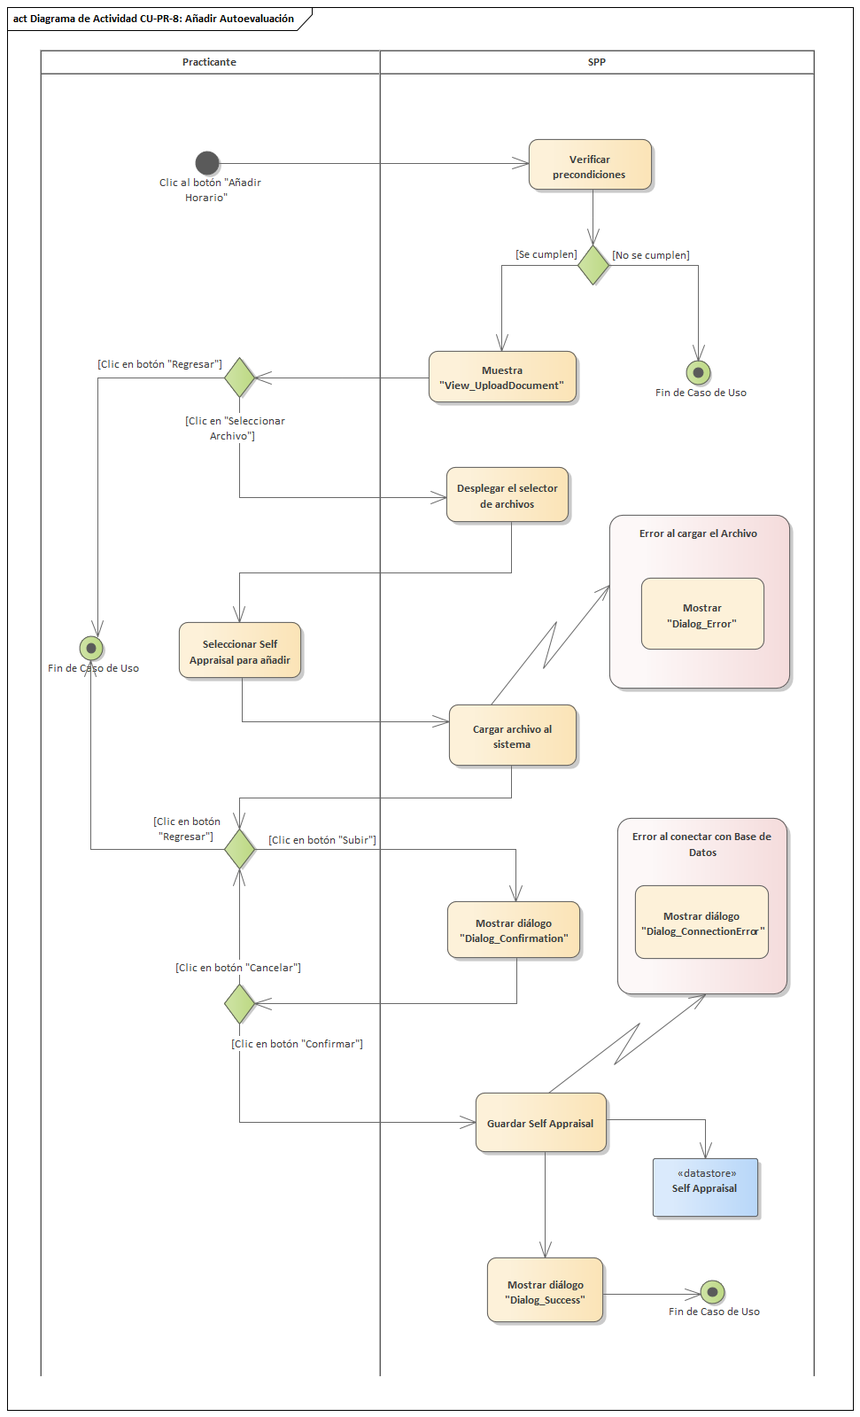
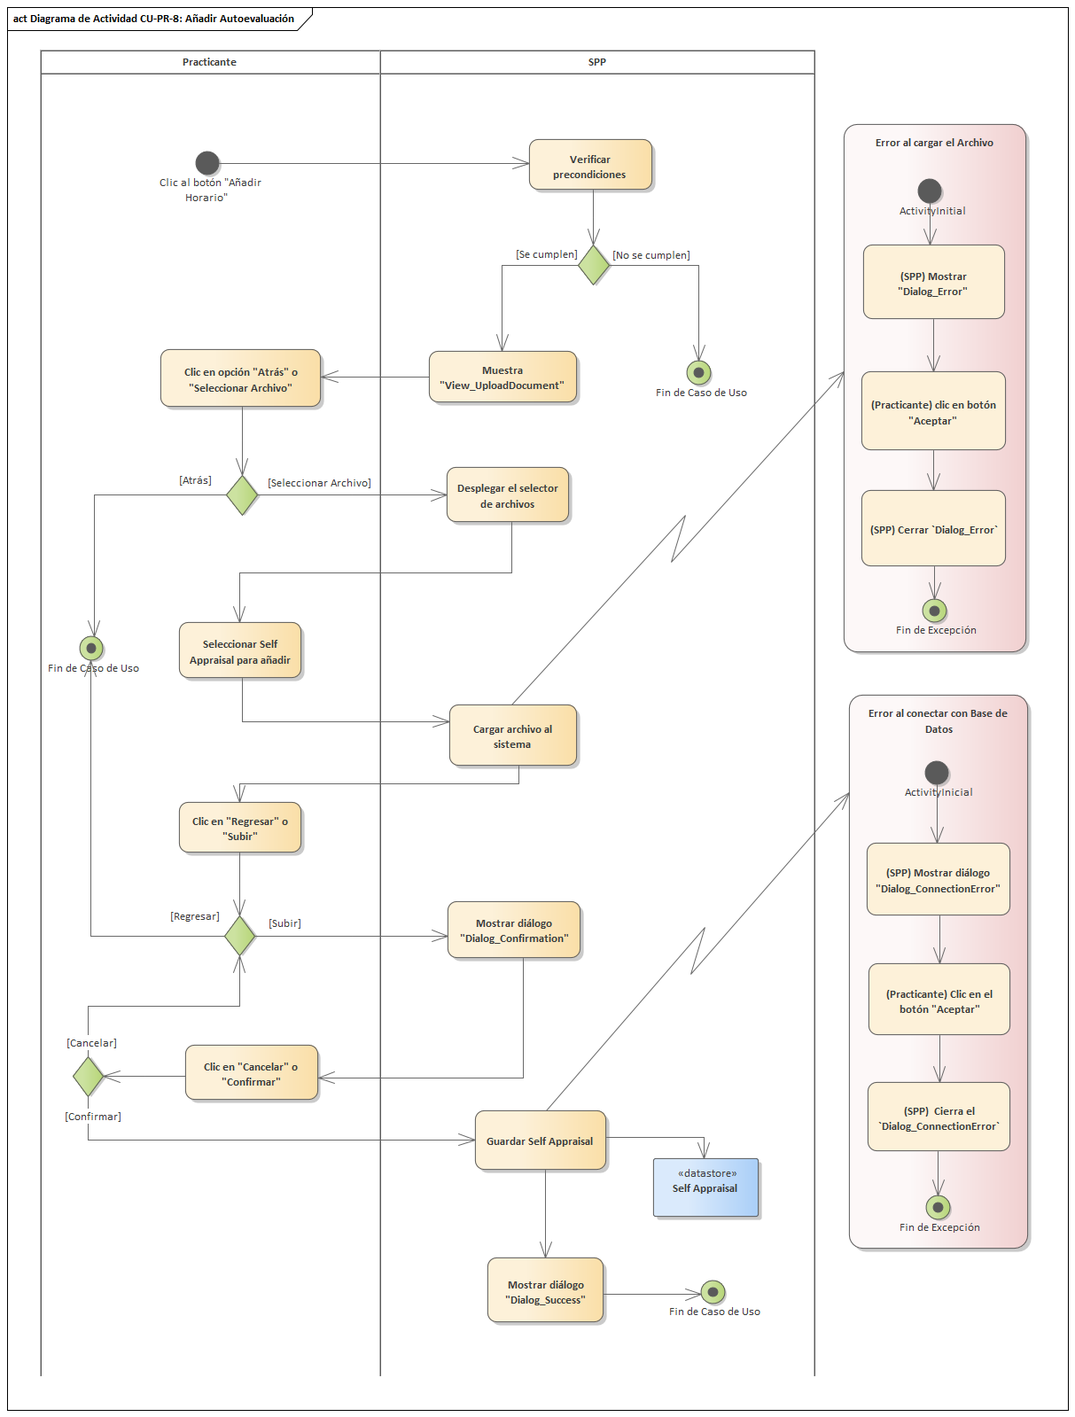
Corregir Diagramas de Actividad y Casos de Uso

diff --git a/assets/ucdescriptions/practitioner/CU-PR-1.md b/assets/ucdescriptions/practitioner/CU-PR-1.md
@@ -13,7 +13,7 @@ hide_hero: true
 
 **Fecha de creación:** 20 de marzo de 2020
 
-**Fecha de actualización:** 18 de junio de 2020
+**Fecha de actualización:** 27 de junio de 2020
 
 **Descripción:**  
 El *Practicante* deberá poder seleccionar hasta tres **`PROJECT`** como opciones para enviar un **`PROJECT REQUEST`** y poder ser asignado a uno de los **`PROJECT`** seleccionados.
@@ -25,32 +25,34 @@ El *Practicante* deberá poder seleccionar hasta tres **`PROJECT`** como opcione
 El *Practicante* da clic al botón "Solicitar Proyecto" en la vista [`View_ProjectSection`][VPSC].
 
 **Precondiciones:**  
-Pre-1. Debe haber, por lo menos, 1 **`PROJECT`** sin asignar en la Base de Datos.
-
-Pre-2. El Practicante no ha enviado su **`PROJECT REQUEST`**.
+Pre-1. Debe haber, por lo menos, 1 **`PROJECT`** sin asignar en la Base de Datos.  
+Pre-2. El Practicante no ha enviado su **`PROJECT REQUEST`**.   
 
 **Flujo Normal:**
-  1. El *SPP* recupera los **`PROJECT`** de la Base de Datos y los muestra en [`View_ProjectRequest`][VPRQ] con disposición cuadriculada; cada cuadro contiene una imagen representativa del proyecto y dos botones: "Visualizar" y "Seleccionar"; hasta abajo dos botones "Solicitar" y "Cancelar". EX-1.
+  1. El *SPP* recupera los nombres de los **`PROJECT`**, sin asignar, de la Base de Datos y los muestra en [`View_ProjectRequest`][VPRQ] con disposición cuadriculada; cada cuadro el nombre del proyecto y dos botones: "Visualizar" y "Seleccionar"; hasta abajo dos botones "Solicitar" y "Cancelar". EX-1.
   2. El *Practicante* da clic al botón "Seleccionar" en los **`PROJECT`** que quiera marcar como opción y da clic al botón "Solicitar". FA-1 FA-2 FA-4 FA-5
-  3. El *SPP* verifica que haya, al menos, un proyecto seleccionado. FA-6
-  4. El *SPP* muestra un diálogo [`Dialog_Confirmation`][DLCO] con los botones "Confirmar" y "No".
-  5. El *Practicante* da clic al botón "Confirmar". FA-3
-  6. El *SPP* cierra el [`Dialog_Confirmation`][DLCO] y añade los **`PROJECT`** al **`PROJECT REQUEST`** y lo guarda en la Base de Datos; y muestra un [`Dialog_Success`][DLSU].
+  3. El *SPP* verifica que haya, al menos, un proyecto seleccionado (FA-6) muestra un diálogo [`Dialog_Confirmation`][DLCO] con los botones "Confirmar" y "No".
+  4. El *Practicante* da clic al botón "Confirmar". FA-3
+  5. El *SPP* cierra el [`Dialog_Confirmation`][DLCO] y añade los **`PROJECT`** al **`PROJECT REQUEST`** y lo guarda en la Base de Datos; y muestra un [`Dialog_Success`][DLSU]. EX-1
+  6. Termina el Caso de uso.
 
 **Flujos Alternos:**
-  1. *Regresar*
-     1. El *Practicante* da clic en el botón "Regresar".
-     2. El *SPP* termina el Caso de Uso.
+  1. *Cancelar Caso de Uso*
+     1. El *Practicante* da clic en el botón "Atrás".
+     2. El *SPP* regresa a la [`View_ProjectSection`][VPSC] 
+     3. Termina el Caso de Uso.
   2. *Visualizar Proyecto*
      1. El *Practicante* da clic al botón "Visualizar".
-     2. El *SPP* muestra la interfaz [`View_ProjectInformation`][VPIN], que al final contiene un botón "Regresar".
+     2. El *SPP* muestra la interfaz [`View_ProjectInformation`][VPIN] que recupera al **`PROJECT`** y que al final contiene un botón "Regresar". EX-1
      3. El *Practicante* da clic en el botón "Regresar"
      4. El *SPP* cierra [`View_ProjectInformation`][VPIN].
   3. *Cancelar Confirmación*
      1. El *Practicante* da clic en el botón "NO".
      2. El *SPP* cierra el [`Dialog_Confirmation`][DLCO] y regresa al FN-2.
   4. *Máxima cantidad de opciones alcanzadas*
-     1. El *SPP* muestra el diálogo [`Dialog_MaxReached`][DLMR]. Regresa al FN-1.
+     1. El *SPP* muestra el diálogo [`Dialog_MaxReached`][DLMR]. 
+     2. El *Practicante* da clic en el botón Aceptar.
+     3. El *SPP* cierra el diálogo y regresa al FN-1.
   5. *Quitar Proyecto*
      1. El *Practicante* da clic en el botón "Quitar".
      2. El *SPP* quita la selección de ese proyecto.
@@ -61,7 +63,9 @@ Pre-2. El Practicante no ha enviado su **`PROJECT REQUEST`**.
 
 **Excepciones:**
    1. *Error al conectar con Base de Datos*
-      1. El *SPP* muestra un diálogo de mensaje [`Dialog_ConnectionError`][DLCE].
+      1. El *SPP* muestra un [`Dialog_ConnectionError`][DLCE] con el botón "Aceptar".
+      2. El *Practicante* da clic en el botón "Aceptar".
+      3. El *SPP* cierra el [`Dialog_ConnectionError`][DLCE] y [FN-1]: despliega la ventana sin los cuadros de los proyectos para solicitar; [FN-5, FA-2]: regresa al FN-2.
 
 **Postcondiciones:**  
 Post-1. El **`PROJECT REQUEST`** se guardó correctamente en la Base de Datos.

diff --git a/assets/ucdescriptions/coordinator/CU-C-2.md b/assets/ucdescriptions/coordinator/CU-C-2.md
@@ -22,7 +22,7 @@ El *Coordinador* podrá asignar, a un **`PRACTITIONER`**, un **`PROJECT`** regis
 *Coordinador*
 
 **Disparador:**  
-El *Coordinador* da clic al botón "Asignar Proyecto" en la vista [`View_PractitionerSection`][VPSE]
+El *Coordinador* da clic al botón "Asignar Proyecto" en la vista [`View_PractitionerSection`][VPSE].
 
 **Precondiciones:**  
 Pre-1. Debe haber, al menos, un **`PROJECT REQUEST`** en la Base de Datos.
@@ -32,13 +32,14 @@ Pre-1. Debe haber, al menos, un **`PROJECT REQUEST`** en la Base de Datos.
   2. El *Coordinador* busca al **`PRACTITIONER`** y da clic al botón "Asignar" del **`PROJECT`** que desee. FA-1
   3. El *SPP* recupera la información del **`PRACTITIONER`** y del **`PROJECT`** de la base de datos y muestra una ventana emergente de confirmación [`View_AssignationConfirmation`][VACO] con los botones "Asignar" y "Cancelar". EX-1
   4. El *Coordinador* da clic al botón "Asignar". FA-2
-  5. El *SPP* valida que el **`PROYECTO`** no se encuentre asignado. FA-3
-  6. El *SPP* realiza la asignación del **`PROJECT`** en la Base de Datos y cambia el estado del **`PROJECT REQUEST`** a "Asignado" y muestra un [`Dialog_Succes`][DLSU]. EX-1
+  5. El *SPP* valida que el **`PROYECTO`** no se encuentre asignado (FA-3) y realiza la asignación del **`PROJECT`** en la Base de Datos; cambia el estado del **`PROJECT REQUEST`** a "Asignado" y muestra un [`Dialog_Succes`][DLSU]. EX-1
+  6. Termina el Caso de Uso.
 
 **Flujos Alternos:**
-  1. *Regresar*
+  1. *Cancelar Caso de Uso*
      1. El *Practicante* da clic al botón "Regresar".
-     2. El *SPP* termina el Caso de Uso.
+     2. El *SPP* regresa a la [`View_PractitionerSection`][VPSE].
+     3. Termina el Caso de Uso.
   2. *Cancelar Confirmación*
      1. El *Practicante* da clic al botón "Cancelar"
      2. El *SPP* cierra la ventana [`View_AssignationConfirmation`][VACO] y regresa al FN-2.
@@ -49,9 +50,9 @@ Pre-1. Debe haber, al menos, un **`PROJECT REQUEST`** en la Base de Datos.
 
 **Excepciones:**
    1. *Error al conectar con Base de Datos*
-      1. El *SPP* muestra un diálogo de mensaje [`Dialog_ConnectionError`][DLCE].
+      1. El *SPP* muestra un [`Dialog_ConnectionError`][DLCE] con el botón "Aceptar".
       2. El *Practicante* da clic en el botón "Aceptar".
-      3. El *SPP* cierra el [`Dialog_ConnectionError`][DLCE].
+      3. El *SPP* cierra el [`Dialog_ConnectionError`][DLCE] y [FN-1]: Despliega la ventana sin **`PROJECT REQUEST`**; [FN-3, FN-5]: regresa al FN-2.
 
 
 **Postcondiciones:**  
@@ -64,7 +65,7 @@ No incluye.
 No extiende.
 
 [VPSE]: https://raw.githubusercontent.com/Phalord/PracticasProfesionales/gh-pages/assets/imgs/prototypes/coordinator/View_PractitionerSection.png "`View_PractitionerSection` Prototype"
-[VPRE]: https://raw.githubusercontent.com/Phalord/PracticasProfesionales/gh-pages/assets/imgs/prototypes/coordinator/View_ProjectAssignation.png "`View_ProjectAssignation` Prototype"
+[VPRE]: https://raw.githubusercontent.com/Phalord/PracticasProfesionales/gh-pages/assets/imgs/prototypes/coordinator/View_ProjectRequests.png "`View_ProjectRequests` Prototype"
 [VACO]: https://raw.githubusercontent.com/Phalord/PracticasProfesionales/gh-pages/assets/imgs/prototypes/coordinator/View_AssignationConfirmation.png "`View_AssignationConfirmation` Prototype"
 [DLSU]: https://raw.githubusercontent.com/Phalord/PracticasProfesionales/gh-pages/assets/imgs/prototypes/generals/Dialog_Success.png "`Dialog_Success` Prototype"
 [DLAA]: https://raw.githubusercontent.com/Phalord/PracticasProfesionales/gh-pages/assets/imgs/prototypes/coordinator/Dialog_ProjectAlreadyAssigned.png "`Dialog_ProjectAlreadyAssigned` Prototype"

diff --git a/assets/ucdescriptions/practitioner/CU-PR-3.md b/assets/ucdescriptions/practitioner/CU-PR-3.md
@@ -13,7 +13,7 @@ hide_hero: true
 
 **Fecha de creación:** 19 de marzo de 2020
 
-**Fecha de actualización:** 18 de junio de 2020
+**Fecha de actualización:** 27 de junio de 2020
 
 **Descripción:**  
 El *Practicante* deberá poder generar su **`PARTIAL REPORT`** y registrar las **`ACTIVITY`** que haya realizado durante un tiempo determinado para que pueda ser consultado y calificado, posteriormente, por un *Profesor*.
@@ -28,17 +28,18 @@ El *Practicante* da clic al botón "Generar Reporte Parcial" en la vista [`View_
 PRE-1. Se encuentra un **`PROJECT`** vinculado a algún **`PRACTITIONER`**.
 
 **Flujo Normal:**
-  1. El *SPP* despliega la interfaz [`View_GeneratePartialReport`][VGPR] mostrando etiquetas de texto que señalan la información que deberá ser ingresada (NRC, Periodo Escolar, Periodo del Reporte, Horas Cubiertas, Número de Informe; y de las **`ACTIVITY`**: Tiempo Real Empleado) en el campo de texto adyacente. Debajo del último campo de texto, se encuentran los botones `Añadir Actividad` y, al final de la ventana, dos botones `Generar` `Cancelar`.
+  1. El *SPP* recupera las **`ACTIVITY`** del *Practicante* y despliega la interfaz [`View_GeneratePartialReport`][VGPR] mostrando etiquetas de texto que señalan la información que deberá ser ingresada (NRC, Periodo Escolar, Periodo del Reporte, Horas Cubiertas, Número de Informe; y de las **`ACTIVITY`**: Tiempo Real Empleado) en el campo de texto adyacente. Debajo del último campo de texto, se encuentran los botones `Añadir Actividad` y, al final de la ventana, dos botones `Generar` `Cancelar`. EX-1
   2. El *Practicante*, escribe la información solicitada por el *SPP* y da clic en el botón `Generar`. FA-1 FA-3
-  3. El *SPP* verifica que los campos de información sean válidos. FA-4
-  4. El *SPP* muestra un diálogo de alerta [`Dialog_Confirmation`][DLCO]
-  5. El *Practicante* da clic en el botón "Confirmar". FA-2
-  6. El *SPP* guarda el **`PARTIAL REPORT`** en la base de datos y cierra el diálogo de Alerta; y muestra un [`Dialog_Succes`][DLSU]. EX-1
+  3. El *SPP* verifica que los campos de información sean válidos (FA-4) y muestra un diálogo de alerta [`Dialog_Confirmation`][DLCO]
+  4. El *Practicante* da clic en el botón "Confirmar". FA-2
+  5. El *SPP* guarda el **`PARTIAL REPORT`** en la base de datos y cierra el diálogo de Alerta; y muestra un [`Dialog_Succes`][DLSU]. EX-1
+  6. Termina el Caso de Uso.
 
 **Flujos Alternos:**
   1. *Cancelar Caso de Uso*
-     1. El *Practicante* da clic al botón "Cancelar".
-     2. El *SPP* termina la actividad y termina el Caso de Uso.
+     1. El *Practicante* da clic al botón "Atrás".
+     2. El *SPP* regresa a la [`View_GenerateDocumentation`][VGDN].
+     3. Termina el Caso de Uso.
   2. *Cancelar Confirmación*
      1. El *Practicante* da clic en el botón "Cancelar".
      2. El *SPP* cierra el diálogo de alerta y regresa al FN-2.
@@ -50,8 +51,9 @@ PRE-1. Se encuentra un **`PROJECT`** vinculado a algún **`PRACTITIONER`**.
 
 **Excepciones:**
    1. *Error al conectar con Base de Datos*
-      1. El *SPP* no puede conectarse con la Base de Datos para guardar la **`ACTIVITY`**.
-      2. El *SPP* muestra un diálogo de mensaje [`Dialog_ConnectionError`][DLCE].
+      1. El *SPP* muestra un [`Dialog_ConnectionError`][DLCE] con el botón "Aceptar".
+      2. El *Practicante* da clic en el botón "Aceptar".
+      3. El *SPP* cierra el [`Dialog_ConnectionError`][DLCE] y [FN-1]: despliega la ventana sin la los cuadros para solicitar; [FN-5]: regresa al FN-2.
 
 **Postcondiciones:**  
 Post-1. El **`PARTIAL REPORT`** se guardó exitosamente en la Base de Datos.

diff --git a/assets/ucdescriptions/practitioner/CU-PR-8.md b/assets/ucdescriptions/practitioner/CU-PR-8.md
@@ -39,9 +39,10 @@ Pre-1. El *Practicante* debe tener las 200hrs de servicio en sus **`PARTIAL REPO
   9. El *SPP* guarda el **`SELF APPRAISAL`** en la Base de Datos y muestra un [`Dialog_Succes`][DLSU]. EX-2
 
 **Flujos Alternos:**
-  1. *Regresar*
-     1. El *Practicante* da clic en el botón "Regresar".
-     2. El *SPP* termina el Caso de Uso.
+  1. *Cancelar Caso de Uso*
+     1. El *Practicante* da clic en el botón "Atrás".
+     2. El *SPP* regresa a la [`View_UploadDocumentation`][VUDC]
+     3. Termina el Caso de Uso.
   2. *Cancelar Cargar Documento*
      1. El *Practicante* da clic al botón "Cancelar" del explorador de archivos.
      2. El *SO* cierra el explorador de archivos y regresa el enfoque al *SPP*, regresando al FN-2.
@@ -53,8 +54,9 @@ Pre-1. El *Practicante* debe tener las 200hrs de servicio en sus **`PARTIAL REPO
    1. *Error al cargar el **`SELF APPRAISAL`***
       1. El *SPP* muestra un [`Dialog_Error`][DLER] y regresa al FN-2
    2. *Error al conectar con Base de Datos*
-      1. El *SPP* no puede conectarse con la Base de Datos para guardar el **`SELF APPRAISAL`**.
-      2. El *SPP* muestra un diálogo de mensaje [`Dialog_ConnectionError`][DLCE].
+      1. El *SPP* muestra un [`Dialog_ConnectionError`][DLCE] con el botón "Aceptar".
+      2. El *Practicante* da clic en el botón "Aceptar".
+      3. El *SPP* cierra el [`Dialog_ConnectionError`][DLCE] y regresa al FN-6
 
 **Postcondiciones:**  
 Post-1. El **`SELF APPRAISAL`** se guardó en la Base de Datos.
@@ -64,3 +66,11 @@ No incluye.
 
 **Extiende (Relación Extend):**  
 No extiende.
+
+
+[VUDC]: https://raw.githubusercontent.com/Phalord/PracticasProfesionales/gh-pages/assets/imgs/prototypes/practitioner/View_UploadDocumentation.png "`View_UploadDocumentation` Prototype"
+[VUDT]: https://raw.githubusercontent.com/Phalord/PracticasProfesionales/gh-pages/assets/imgs/prototypes/generals/View_UploadDocument.png "`View_UploadDocument` Prototype"
+[DLCO]: https://raw.githubusercontent.com/Phalord/PracticasProfesionales/gh-pages/assets/imgs/prototypes/generals/Dialog_Confirmation.png "`Dialog_Confirmation` Prototype"
+[DLSU]: https://raw.githubusercontent.com/Phalord/PracticasProfesionales/gh-pages/assets/imgs/prototypes/generals/Dialog_Success.png "`Dialog_Success` Prototype"
+[DLCE]: https://raw.githubusercontent.com/Phalord/PracticasProfesionales/gh-pages/assets/imgs/prototypes/generals/Dialog_ConnectionError.png "`Dialog_ConnectionError` Prototype"
+[DLER]: https://raw.githubusercontent.com/Phalord/PracticasProfesionales/gh-pages/assets/imgs/prototypes/generals/Dialog_Error.png "`Dialog_Error` Prototype"

diff --git a/assets/ucdescriptions/practitioner/CU-PR-2.md b/assets/ucdescriptions/practitioner/CU-PR-2.md
@@ -13,7 +13,7 @@ hide_hero: true
 
 **Fecha de creación:** 25 de marzo de 2020
 
-**Fecha de actualización:** 18 de junio de 2020
+**Fecha de actualización:** 27 de junio de 2020
 
 **Descripción:**  
 El *Practicante* deberá poder subir una versión PDF de su **`SCHOOL TIMETABLE`**.
@@ -25,7 +25,7 @@ El *Practicante* deberá poder subir una versión PDF de su **`SCHOOL TIMETABLE`
 El *Practicante* da clic al botón "Añadir Horario" en la interfaz [`View_UploadDocumentation`][VUDC].
 
 **Precondiciones:**  
-Pre-1. El *Practicante* debe tener asignado a un **`PROJECT`**.
+Pre-1. El *Practicante* debe tener asignado a un **`PROJECT`**.  
 
 **Flujo Normal:**
   1. El *SPP* muestra la interfaz [`View_UploadDocument`][VUDT], con los botones "Seleccionar Archivo", "Subir" y "Regresar".
@@ -37,11 +37,13 @@ Pre-1. El *Practicante* debe tener asignado a un **`PROJECT`**.
   7. El *SPP* muestra un diálogo [`Dialog_Confirmation`][DLCO] con dos botones "Cancelar" y "Confirmar".
   8. El *Practicante* da clic en el botón "Confirmar". FA-3
   9. El *SPP* guarda el **`SCHOOL TIMETABLE`** en la Base de Datos y muestra un [`Dialog_Success`][DLSU]. EX-2
+  10. Termina el Caso de Uso.
 
 **Flujos Alternos:**
-  1. *Regresar*
-     1. El *Practicante* da clic en el botón "Regresar".
-     2. El *SPP* termina el Caso de Uso.
+  1. *Cancelar Caso de Uso*
+     1. El *Practicante* da clic en el botón "Atrás".
+     2. El *SPP* regresa a la [`View_UploadDocumentation`][VUDC].
+     3. Termina el Caso de Uso.
   2. *Cancelar Cargar Documento*
      1. El *Practicante* da clic al botón "Cancelar" del explorador de archivos.
      2. El *SPP* cierra el explorador de archivos y regresa el enfoque al *SPP*, regresando al FN-2.
@@ -55,7 +57,7 @@ Pre-1. El *Practicante* debe tener asignado a un **`PROJECT`**.
    2. *Error al conectar con Base de Datos*
       1. El *SPP* muestra un [`Dialog_ConnectionError`][DLCE] con el botón "Aceptar".
       2. El *Practicante* da clic en el botón "Aceptar".
-      3. El *SPP* cierra el [`Dialog_ConnectionError`][DLCE] y regresa al FN-6
+      3. El *SPP* cierra el [`Dialog_ConnectionError`][DLCE] y regresa al FN-6.
 
 **Postcondiciones:**  
 Post-1. El **`SCHOOL TIMETABLE`** se guardó en la Base de Datos.

diff --git a/assets/ucdescriptions/practitioner/CU-PR-4.md b/assets/ucdescriptions/practitioner/CU-PR-4.md
@@ -38,11 +38,13 @@ Pre-2. El *Practicante* debe tener asignada al menos 1 **`ACTIVITY`** sin comple
   7. El *SPP* muestra un diálogo [`Dialog_Confirmation`][DLCO] con dos botones "Cancelar" y "Confirmar".
   8. El *Practicante* da clic en el botón "Confirmar". FA-3
   9. El *SPP* guarda el **`PARTIAL REPORT`** en la Base de Datos y muestra un [`Dialog_Succes`][DLSU]. EX-2
+  10. Termina el Caso de Uso
 
 **Flujos Alternos:**
-  1. *Regresar*
-     1. El *Practicante* da clic en el botón "Regresar".
-     2. El *SPP* termina el Caso de Uso.
+  1. *Cancelar Caso de Uso*
+     1. El *Practicante* da clic en el botón "Atrás".
+     2. El *SPP* regresa a la [`View_UploadDocumentation`][VUDC]
+     3. Termina el Caso de Uso.
   2. *Cancelar Cargar Documento*
      1. El *Practicante* da clic al botón "Cancelar" del explorador de archivos.
      2. El *SO* cierra el explorador de archivos y regresa el enfoque al *SPP*, regresando al FN-2.
@@ -54,8 +56,9 @@ Pre-2. El *Practicante* debe tener asignada al menos 1 **`ACTIVITY`** sin comple
    1. *Error al cargar el **`PARTIAL REPORT`***
       1. El *SPP* muestra un [`Dialog_Error`][DLER] y regresa al FN-2
    2. *Error al conectar con Base de Datos*
-      1. El *SPP* no puede conectarse con la Base de Datos para guardar el **`PARTIAL REPORT`**.
-      2. El *SPP* muestra un diálogo de mensaje [`Dialog_ConnectionError`][DLCE].
+      1. El *SPP* muestra un [`Dialog_ConnectionError`][DLCE] con el botón "Aceptar".
+      2. El *Practicante* da clic en el botón "Aceptar".
+      3. El *SPP* cierra el [`Dialog_ConnectionError`][DLCE] y regresa al FN-6
 
 **Postcondiciones:**  
 Post-1. El **`PARTIAL REPORT`** se guardó en la Base de Datos.

diff --git a/assets/ucdescriptions/practitioner/CU-PR-6.md b/assets/ucdescriptions/practitioner/CU-PR-6.md
@@ -40,9 +40,10 @@ Pre-2. El *Practicante* debe tener asignada al menos 1 **`ACTIVITY`** sin comple
   9. El *SPP* guarda el **`MONTHLY REPORT`** en la Base de Datos y muestra un [`Dialog_Succes`][DLSU]. EX-2
 
 **Flujos Alternos:**
-  1. *Regresar*
-     1. El *Practicante* da clic en el botón "Regresar".
-     2. El *SPP* termina el Caso de Uso.
+  1. *Cancelar Caso de Uso*
+     1. El *Practicante* da clic en el botón "Atrás".
+     2. El *SPP* regresa a la [`View_UploadDocumentation`][VUDC]
+     3. Termina el Caso de Uso.
   2. *Cancelar Cargar Documento*
      1. El *Practicante* da clic al botón "Cancelar" del explorador de archivos.
      2. El *SO* cierra el explorador de archivos y regresa el enfoque al *SPP*, regresando al FN-2.
@@ -54,8 +55,9 @@ Pre-2. El *Practicante* debe tener asignada al menos 1 **`ACTIVITY`** sin comple
    1. *Error al cargar el **`MONTHLY REPORT`***
       1. El *SPP* muestra un [`Dialog_Error`][DLER] y regresa al FN-2
    2. *Error al conectar con Base de Datos*
-      1. El *SPP* no puede conectarse con la Base de Datos para guardar el **`MONTHLY REPORT`**.
-      2. El *SPP* muestra un diálogo de mensaje [`Dialog_ConnectionError`][DLCE].
+      1. El *SPP* muestra un [`Dialog_ConnectionError`][DLCE] con el botón "Aceptar".
+      2. El *Practicante* da clic en el botón "Aceptar".
+      3. El *SPP* cierra el [`Dialog_ConnectionError`][DLCE] y regresa al FN-6
 
 **Postcondiciones:**  
 Post-1. El **`MONTHLY REPORT`** se guardó en la Base de Datos.

diff --git a/assets/ucdescriptions/practitioner/CU-PR-11.md b/assets/ucdescriptions/practitioner/CU-PR-11.md
@@ -39,9 +39,10 @@ Pre-1. El *Practicante* debe tener asignado un **`PROJECT`**.
   9. El *SPP* guarda el **`ACTIVITIES SCHEDULE`** en la Base de Datos y muestra un [`Dialog_Succes`][DLSU]. EX-2
 
 **Flujos Alternos:**
-  1. *Regresar*
-     1. El *Practicante* da clic en el botón "Regresar".
-     2. El *SPP* termina el Caso de Uso.
+  1. *Cancelar Caso de Uso*
+     1. El *Practicante* da clic en el botón "Atrás".
+     2. El *SPP* regresa a la [`View_UploadDocumentation`][VUDC]
+     3. Termina el Caso de Uso.
   2. *Cancelar Cargar Documento*
      1. El *Practicante* da clic al botón "Cancelar" del explorador de archivos.
      2. El *SO* cierra el explorador de archivos y regresa el enfoque al *SPP*, regresando al FN-2.
@@ -53,8 +54,9 @@ Pre-1. El *Practicante* debe tener asignado un **`PROJECT`**.
    1. *Error al cargar el **`ACTIVITIES SCHEDULE`***
       1. El *SPP* muestra un [`Dialog_Error`][DLER] y regresa al FN-2
    2. *Error al conectar con Base de Datos*
-      1. El *SPP* no puede conectarse con la Base de Datos para guardar el **`ACTIVITIES SCHEDULE`**.
-      2. El *SPP* muestra un diálogo de mensaje [`Dialog_ConnectionError`][DLCE].
+      1. El *SPP* muestra un [`Dialog_ConnectionError`][DLCE] con el botón "Aceptar".
+      2. El *Practicante* da clic en el botón "Aceptar".
+      3. El *SPP* cierra el [`Dialog_ConnectionError`][DLCE] y regresa al FN-6
 
 **Postcondiciones:**  
 Post-1. El **`ACTIVITIES SCHEDULE`** se guardó en la Base de Datos.

diff --git a/assets/ucdescriptions/practitioner/CU-PR-9.md b/assets/ucdescriptions/practitioner/CU-PR-9.md
@@ -39,9 +39,10 @@ Pre-1. El *Practicante* debe tener, al menos, una **`ACTIVITY`** asignada sin en
   9. El *SPP* guarda la **`ACTIVITY`** en la Base de Datos y muestra un [`Dialog_Succes`][DLSU]. EX-2
 
 **Flujos Alternos:**
-  1. *Regresar*
-     1. El *Practicante* da clic en el botón "Regresar".
-     2. El *SPP* termina el Caso de Uso.
+  1. *Cancelar Caso de Uso*
+     1. El *Practicante* da clic en el botón "Atrás".
+     2. El *SPP* regresa a la [`View_UploadDocumentation`][VUDC]
+     3. Termina el Caso de Uso.
   2. *Cancelar Cargar Documento*
      1. El *Practicante* da clic al botón "Cancelar" del explorador de archivos.
      2. El *SO* cierra el explorador de archivos y regresa el enfoque al *SPP*, regresando al FN-2.
@@ -53,8 +54,9 @@ Pre-1. El *Practicante* debe tener, al menos, una **`ACTIVITY`** asignada sin en
    1. *Error al cargar la **`ACTIVITY`***
       1. El *SPP* muestra un [`Dialog_Error`][DLER] y regresa al FN-2
    2. *Error al conectar con Base de Datos*
-      1. El *SPP* no puede conectarse con la Base de Datos para guardar la **`ACTIVITY`**.
-      2. El *SPP* muestra un diálogo de mensaje [`Dialog_ConnectionError`][DLCE].
+      1. El *SPP* muestra un [`Dialog_ConnectionError`][DLCE] con el botón "Aceptar".
+      2. El *Practicante* da clic en el botón "Aceptar".
+      3. El *SPP* cierra el [`Dialog_ConnectionError`][DLCE] y regresa al FN-6
 
 **Postcondiciones:**  
 Post-1. La **`ACTIVITY`** se guardó en la Base de Datos.

diff --git a/assets/ucdescriptions/practitioner/CU-PR-10.md b/assets/ucdescriptions/practitioner/CU-PR-10.md
@@ -39,9 +39,10 @@ Pre-1. El *Practitioner* debe haber subido su **`SELF APPRAISAL`**.
   9. El *SPP* guarda el **`PERSONAL LOG`** en la Base de Datos y muestra un [`Dialog_Succes`][DLSU]. EX-2
 
 **Flujos Alternos:**
-  1. *Regresar*
-     1. El *Practicante* da clic en el botón "Regresar".
-     2. El *SPP* termina el Caso de Uso.
+  1. *Cancelar Caso de Uso*
+     1. El *Practicante* da clic en el botón "Atrás".
+     2. El *SPP* regresa a la [`View_UploadDocumentation`][VUDC]
+     3. Termina el Caso de Uso.
   2. *Cancelar Cargar Documento*
      1. El *Practicante* da clic al botón "Cancelar" del explorador de archivos.
      2. El *SO* cierra el explorador de archivos y regresa el enfoque al *SPP*, regresando al FN-2.
@@ -53,8 +54,9 @@ Pre-1. El *Practitioner* debe haber subido su **`SELF APPRAISAL`**.
    1. *Error al cargar el **`PERSONAL LOG`***
       1. El *SPP* muestra un [`Dialog_Error`][DLER] y regresa al FN-2
    2. *Error al conectar con Base de Datos*
-      1. El *SPP* no puede conectarse con la Base de Datos para guardar el **`PERSONAL LOG`**.
-      2. El *SPP* muestra un diálogo de mensaje [`Dialog_ConnectionError`][DLCE].
+      1. El *SPP* muestra un [`Dialog_ConnectionError`][DLCE] con el botón "Aceptar".
+      2. El *Practicante* da clic en el botón "Aceptar".
+      3. El *SPP* cierra el [`Dialog_ConnectionError`][DLCE] y regresa al FN-6
 
 **Postcondiciones:**  
 Post-1. El **`PERSONAL LOG`** se guardó en la Base de Datos.
